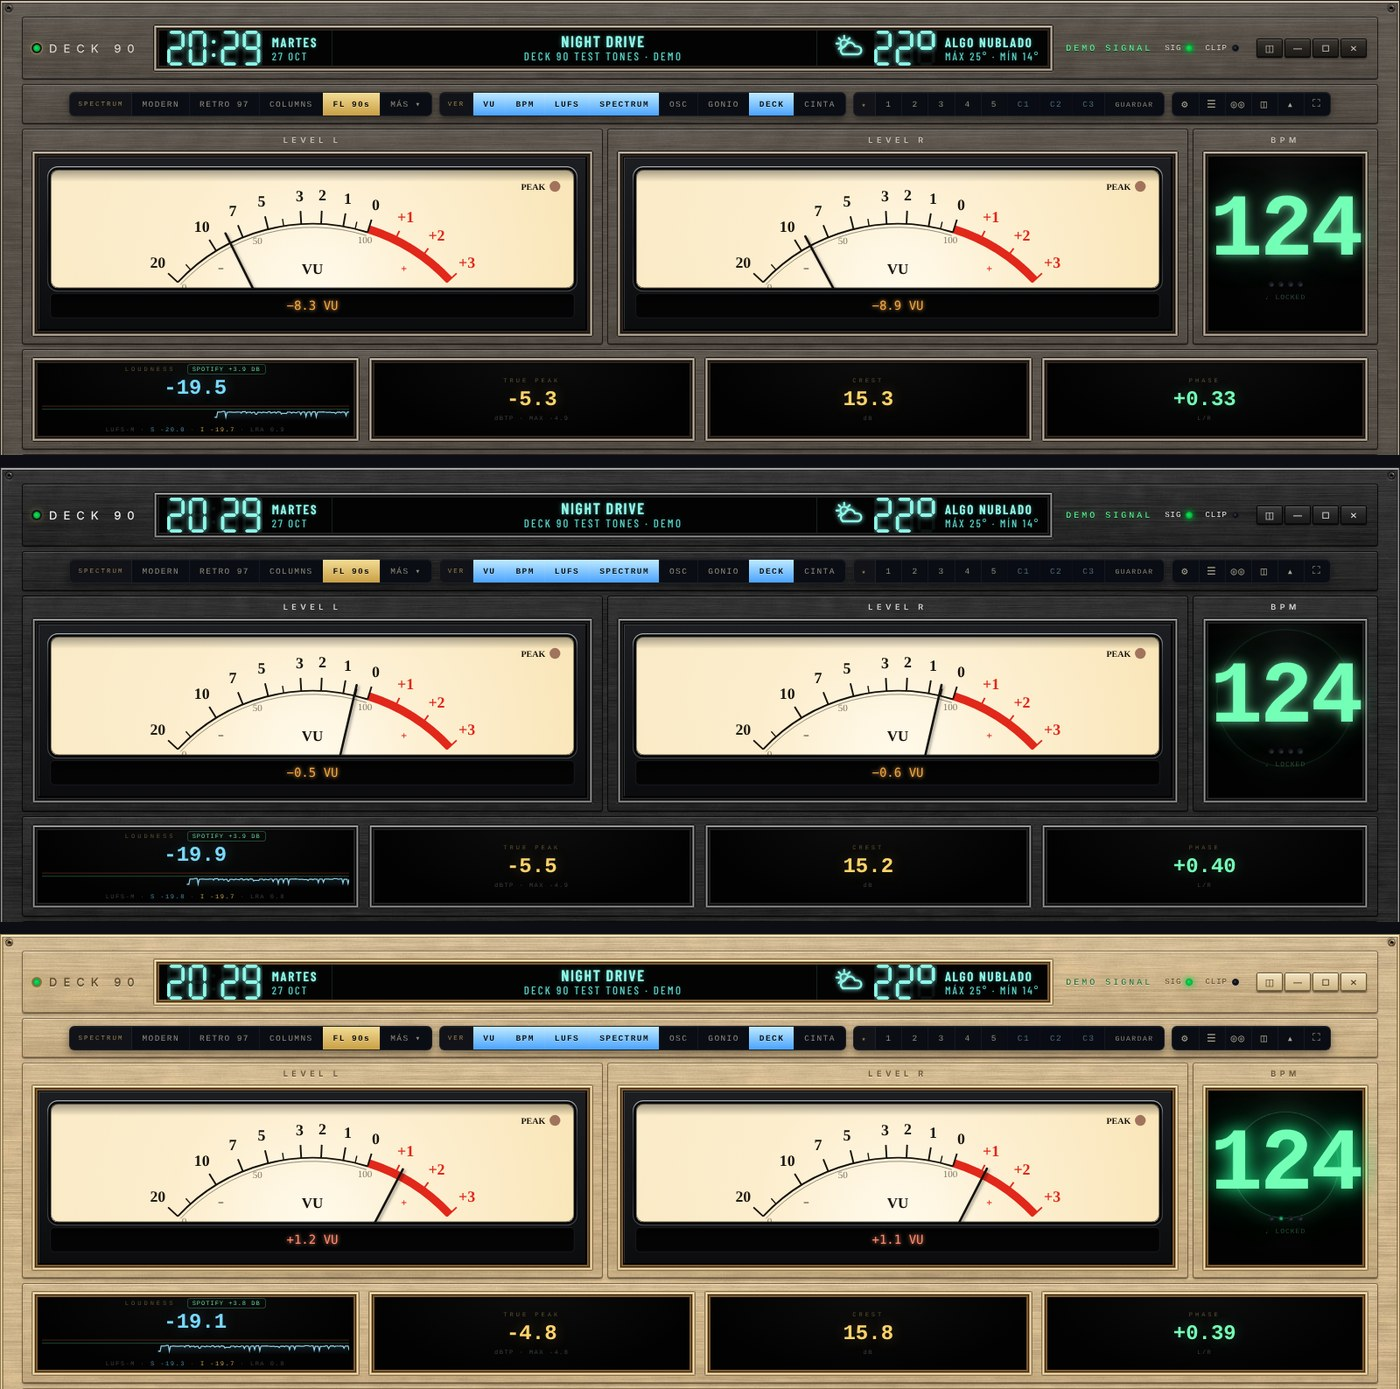
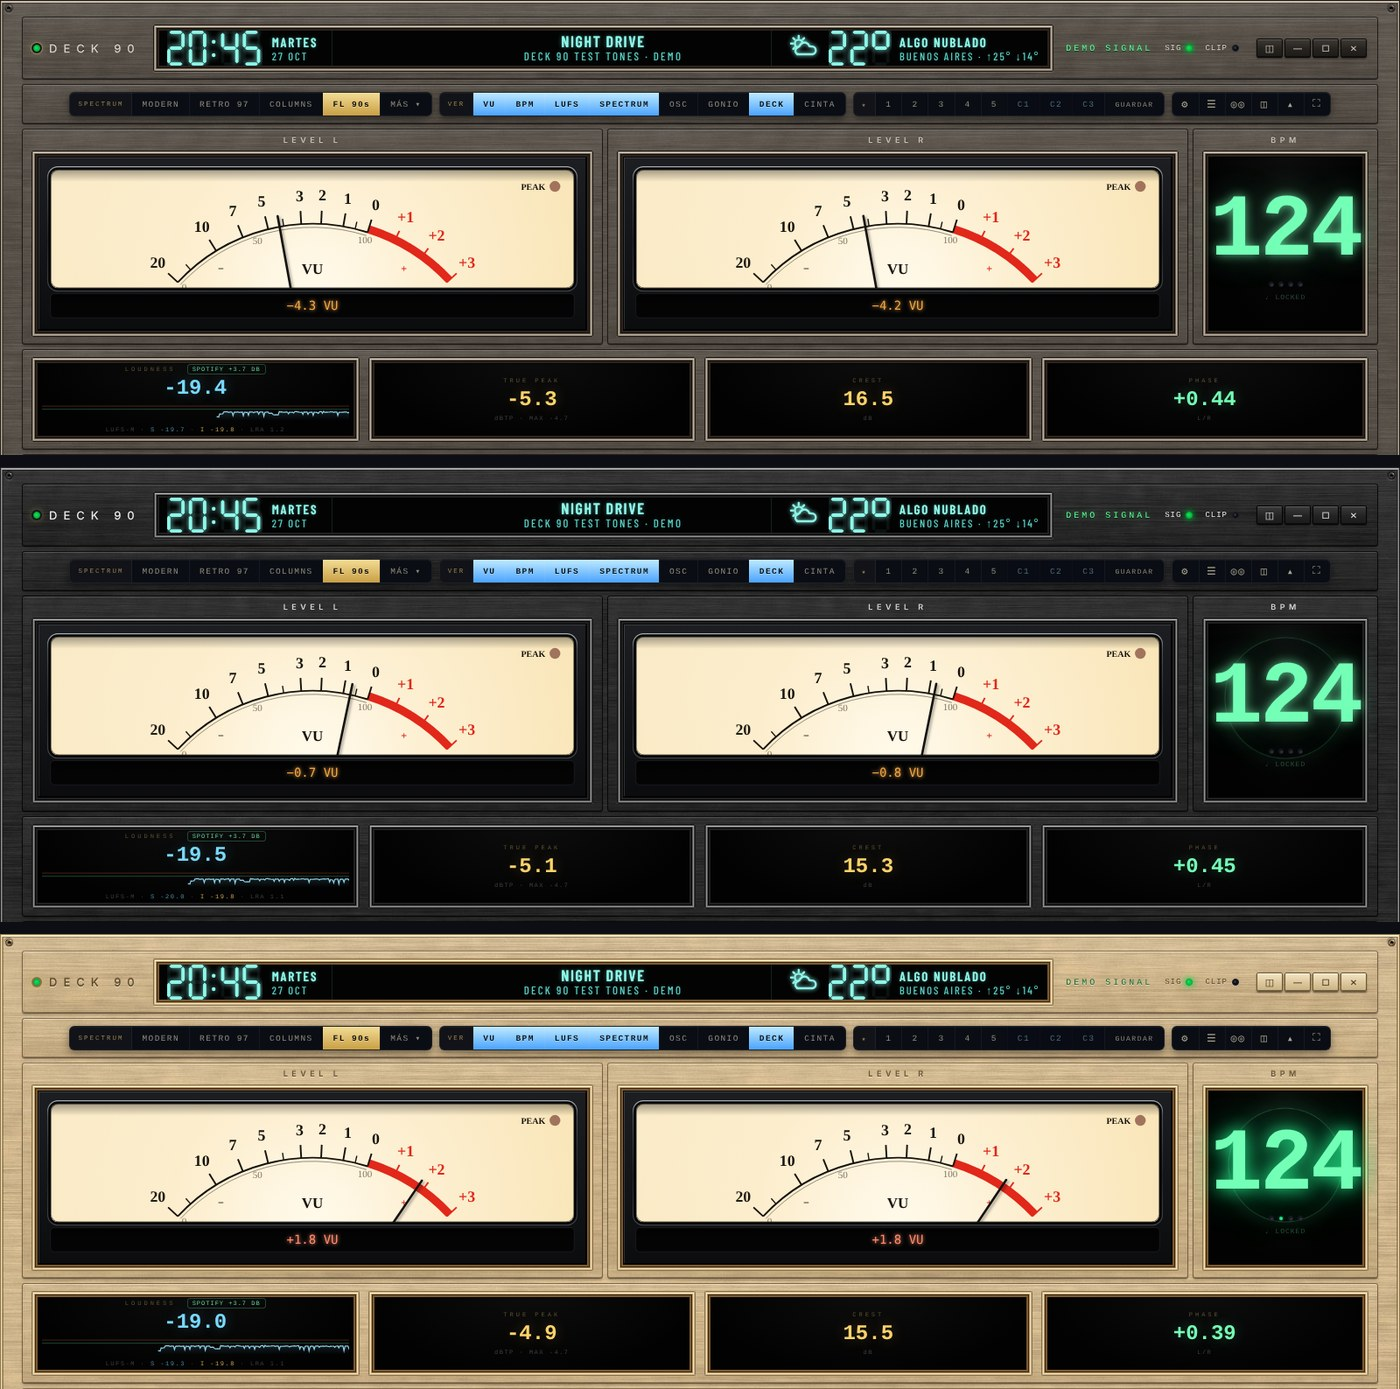
7.1.1: city on the weather, clock in the mini strip, header-height resize
- weather second line: CITY · ↑high° ↓low°
- clock and weather kept in mini mode as room allows (clock drops last);
  a narrow mini strip hides the engraved name
- modules resized when the header's height changes (mini strip was cut)
- mini canvas minimum lowered so a tiny strip stays inside the window
- README: header-weather, wide CD-90 and mini screenshots

Claude-Session: https://claude.ai/code/session_01CSpiAfwMtvrKp6wf1rN1Pf

diff --git a/src/js/clock.js b/src/js/clock.js
@@ -5,7 +5,7 @@
 //  where you are, an FL icon, the temperature, the sky and today's high and low. ⚙ → RELOJ turns them on and
 //  off and takes the city. The weather comes from Open-Meteo through the main process, every 15 minutes.
 //  The display grows to the whole width between the brand and the status; when it gets narrow, the weather's
-//  words go first, then the weather, then the date.
+//  words go first, then the date, then the weather. The mini strip keeps them too, as room allows.
 // ═══════════════════════════════════════════════════════════
 const CLOCK_KEY = 'deck90-clock';
 const CLOCK_MODES = ['off', 'clock', 'weather'];
@@ -43,7 +43,7 @@ function wxKind(c) {
 }
 
 let hcH = 0, hcLast = '', wx = null, wxAt = 0, wxTimer = 0, wxBusy = false;
-const hcShown = () => clockCfg.mode !== 'off' && document.documentElement.classList.contains('chassis-ti') && !document.body.classList.contains('mini');
+const hcShown = () => clockCfg.mode !== 'off' && document.documentElement.classList.contains('chassis-ti');
 // a canvas sized in CSS pixels, drawn sharp at the screen's density
 function hcCanvas(c, w, h) {
   const pr = window.devicePixelRatio || 1;
@@ -134,8 +134,9 @@ function drawWeather() {
   segDraw(x, txt, h, false, true);
   wxIcon(old ? 'cloud' : wxKind(wx.code), !old && !wx.day);
   hcEl.cond.textContent = old ? (wxBusy ? 'BUSCANDO…' : 'SIN DATOS') : (WX_TEXT[wx.code] || 'NUBLADO');
-  hcEl.range.textContent = old || wx.max === null ? clockCfg.place.name.toUpperCase()
-    : 'MÁX ' + Math.round(wx.max) + '° · MÍN ' + Math.round(wx.min) + '°';
+  // the city, and today's high and low
+  hcEl.range.textContent = clockCfg.place.name.toUpperCase() +
+    (old || wx.max === null || wx.min === null ? '' : ' · ↑' + Math.round(wx.max) + '° ↓' + Math.round(wx.min) + '°');
   hcEl.wx.title = clockCfg.place.name + (clockCfg.place.area ? ', ' + clockCfg.place.area : '') + ' · datos de Open-Meteo.com (⚙ → RELOJ para cambiar la ciudad)';
 }
 
@@ -162,9 +163,9 @@ function layoutClock() {
   if (nh !== hcH) { hcH = nh; hcLast = ''; }
   drawClock(new Date());
   if (clockCfg.mode === 'weather') drawWeather();
-  // the song keeps its room: when it's cramped (or cut while there's little room), the weather's words go,
-  // then the date, then the weather
-  const steps = ['hc-tight', 'hc-tighter', 'hc-tightest'];
+  // the song keeps its room: when it's cramped, the weather's words go, then the date, then the weather,
+  // and in the narrowest window the clock too
+  const steps = ['hc-tight', 'hc-tighter', 'hc-tightest', 'hc-gone'];
   box.classList.remove(...steps);
   const room = box.clientWidth - parseFloat(cs.paddingLeft) - parseFloat(cs.paddingRight);
   const song = box.classList.contains('on') ? Math.max(el('npTitle').scrollWidth, el('npArtist').scrollWidth) + 32 : 0;
@@ -215,6 +216,10 @@ hcEl.wx.addEventListener('click', () => { if (!drawerOpen) setDrawer(true); if (
   setTimeout(tick, 500 - (Date.now() % 500) + 5);
 })();
 new ResizeObserver(() => requestAnimationFrame(layoutClock)).observe(hcEl.box);
+// the header's height follows its display (taller with the clock): the modules under it are sized again
+let hdrT = 0;
+new ResizeObserver(() => { clearTimeout(hdrT); hdrT = setTimeout(() => { sizeCanvases(); if (!running && typeof drawIdle === 'function') drawIdle(); }, 60); })
+  .observe(document.querySelector('.title-bar'));
 new MutationObserver(() => requestAnimationFrame(layoutClock)).observe(el('npTitle'), { childList: true, characterData: true, subtree: true });
 new MutationObserver(() => requestAnimationFrame(layoutClock)).observe(document.documentElement, { attributes: true, attributeFilter: ['class'] });
 new MutationObserver(() => requestAnimationFrame(layoutClock)).observe(document.body, { attributes: true, attributeFilter: ['class'] });

diff --git a/src/styles.css b/src/styles.css
@@ -1090,11 +1090,18 @@ html.chassis-ti.hdr-clock .np-text{ grid-column:3; }
 #hcDay, #hwCond{ font-weight:600; font-size:15px; letter-spacing:1.8px; color:#8ef8ea; text-shadow:0 0 1px rgba(142,248,234,.8), 0 0 5px rgba(127,246,230,.4); }
 .hw.hint .hw-text{ opacity:.75; }
 /* a narrow display leaves room for the song: the weather's words go first, then the date, then the weather */
-.np.hc-tight .hw-text, .np.hc-tighter .hc-date, .np.hc-tightest .hw{ display:none !important; }
+.np.hc-tight .hw-text, .np.hc-tighter .hc-date, .np.hc-tightest .hw, .np.hc-gone .hc{ display:none !important; }
 @media (max-height:820px){
   html.chassis-ti.hdr-clock .np{ min-height:42px; padding:3px 14px; }
   .hc-date, .hw-text{ font-size:11px; } #hcDay, #hwCond{ font-size:13px; }
 }
+/* the mini strip: the same display, as low as before */
+html.chassis-ti.hdr-clock body.mini .np{ min-height:36px; padding:3px 12px; }
+html.chassis-ti.hdr-clock body.mini .hc{ padding-right:12px; gap:9px; }
+html.chassis-ti.hdr-wx body.mini .hw{ padding-left:12px; gap:7px; }
+body.mini .hc-date, body.mini .hw-text{ font-size:10.5px; } body.mini #hcDay, body.mini #hwCond{ font-size:12px; }
+/* a narrow strip gives the engraved name's room to the display (the LED stays) */
+@media (max-width:700px){ html.chassis-ti.hdr-clock body.mini .brand-name{ display:none; } }
 /* the city, typed in the drawer */
 .seg input{
   width:130px; padding:0 10px; border:0; border-left:1px solid rgba(255,255,255,.06); outline:none;

diff --git a/src/js/core.js b/src/js/core.js
@@ -340,7 +340,7 @@ function availHeight(c, min) {
 function sizeCanvases() {
   const pr = window.devicePixelRatio || 1;
   // smallest heights: only reached in a very short window, where a display must stay inside its frame
-  const all = [[cVL, 96], [cVR, 96], [cGO, 90], [cSP, 56], [cOS, 36], [cDK, 90], [cTP, 120], [cMI, 40]];
+  const all = [[cVL, 96], [cVR, 96], [cGO, 90], [cSP, 56], [cOS, 36], [cDK, 90], [cTP, 120], [cMI, 20]];
   all.forEach(([c]) => { c.style.height = '0px'; });        // let the panels settle without the old canvas size
   const padX = p => { const cs = getComputedStyle(p); return (parseFloat(cs.paddingLeft) || 0) + (parseFloat(cs.paddingRight) || 0); };
   const sizes = all.map(([c, min]) => [c, c.parentElement.clientWidth - padX(c.parentElement), availHeight(c, min)]);

diff --git a/README.md b/README.md
@@ -4,6 +4,10 @@ A desktop audio analyzer with a retro hi-fi look. It listens to whatever your co
 
 ![Deck 90 — TITANIO frame, CREMA VU meters, the Spotify badge, FL 90s spectrum and the DECK 90 cassette deck](docs/screenshots/main.jpg)
 
+**Clock and weather in the header:** the time in 7-segment digits with the day and date, the song in the middle, and the weather where you are, with its icon, the temperature, the sky, the city and today's high and low.
+
+![The header with the clock and five kinds of weather](docs/screenshots/header-weather.jpg)
+
 **Three metal frames:** TITANIO, NEGRO and CHAMPAGNE (or the CLÁSICO dark rack). Every display sits behind glass in a polished bevel, its name engraved above it.
 
 ![TITANIO, NEGRO and CHAMPAGNE frames](docs/screenshots/finishes.jpg)
@@ -17,6 +21,10 @@ A desktop audio analyzer with a retro hi-fi look. It listens to whatever your co
 ![SO-90 REEL](docs/screenshots/so90.jpg)
 
 ![CD-90](docs/screenshots/cd90.jpg)
+
+In a wide window the CD-90's panel grows sideways too: a longer tray and wider keys.
+
+![A wide window: AZUL INTENSO VU meters, FL 90s and the wide CD-90](docs/screenshots/wide.jpg)
 
 **VU faces:** CREMA, AZUL, CINTA 70s and HI-FI 90s (and STUDIO and AZUL INTENSO).
 
@@ -72,7 +80,7 @@ A desktop audio analyzer with a retro hi-fi look. It listens to whatever your co
 - **Modules.** Every module can be switched off, and the rest grow to fill the space.
 - **Presets: five favourites and three of your own.** Each keeps a whole look: VU face, spectrum style and sensitivity, screen tone, VU calibration, the modules shown, and the deck and cassette styles. 1–5 (F1–F5) are fixed: Estudio, Hi-Fi 90s, Cinta 70s, Vidriera and Mastering. C1–C3 (F6–F8) are yours: GUARDAR then C1–C3 (or Shift+click, Shift+F6–F8) stores what's on screen there. The one matching the screen lights up.
 - **The DECK 90 cassette deck.** With the metal frames, the DECK module is a black brushed deck with a DECK 90 tape whose reels turn as a real C90's (the packs change as the side plays) and the song on its label, an FL display, square transport keys that drive the player, knobs, power LED and phones jack. One or two decks, filling their panel.
-- **Clock and weather in the header.** With the metal frames, the display at the top spans the header: the time in the decks' 7-segment digits with the day and date on its left, the song in the middle, and on its right the weather where you are, an FL icon, the temperature, the sky and today's high and low. Type your city in the ⚙ drawer (RELOJ). The weather comes from [Open-Meteo](https://open-meteo.com) every 15 minutes: only the city's name (once, to find it) and its coordinates are sent there. RELOJ also turns it into just the clock, or off. In a narrow window the weather's words go first, then the date, then the weather, so the song keeps its room.
+- **Clock and weather in the header.** With the metal frames, the display at the top spans the header: the time in the decks' 7-segment digits with the day and date on its left, the song in the middle, and on its right the weather where you are: an FL icon, the temperature, the sky, the city and today's high and low. Type your city in the ⚙ drawer (RELOJ). The weather comes from [Open-Meteo](https://open-meteo.com) every 15 minutes: only the city's name (once, to find it) and its coordinates are sent there. RELOJ also turns it into just the clock, or off. In a narrow window the weather's words go first, then the date, then the weather (and in the narrowest the clock), so the song keeps its room; the mini strip keeps them too, as room allows.
 - **The frame of a premium '90s deck.** MARCO in the ⚙ drawer: brushed TITANIO, NEGRO or CHAMPAGNE plates with every display behind glass in a polished bevel and its name engraved above it, or the CLÁSICO dark rack.
 - **It remembers.** The look, the window's size and place (or maximized), the mini strip's place, the phone display and the tray choices all come back as you left them.
 - **Tray.** Deck 90 sits by the clock: on Windows ✕ leaves it measuring there (the phone display keeps working; Shift+✕ quits), and its menu shows the window, switches mini mode and the phone display, starts it with Windows (hidden, straight to the tray) and quits.

diff --git a/CHANGELOG.md b/CHANGELOG.md
@@ -1,5 +1,16 @@
 # Changelog
 
+## 7.1.1
+
+### Changed
+- The weather shows its city beside today's high and low (QUILMES · ↑18° ↓12°), so you can see which place it is.
+- The mini strip keeps the clock and the weather as far as its width allows; a narrow strip gives the engraved name's room to the display (the LED stays).
+
+### Fixed
+- The mini strip could end up cut off at the bottom: when the header changes height (the clock turning on, going into or out of mini mode), the modules under it are now sized again.
+- In a very low mini strip the meters stay inside their window.
+- New screenshots in the README: the header with five kinds of weather, a wide window with the CD-90, and the mini strip.
+
 ## 7.1.0
 
 ### Added
